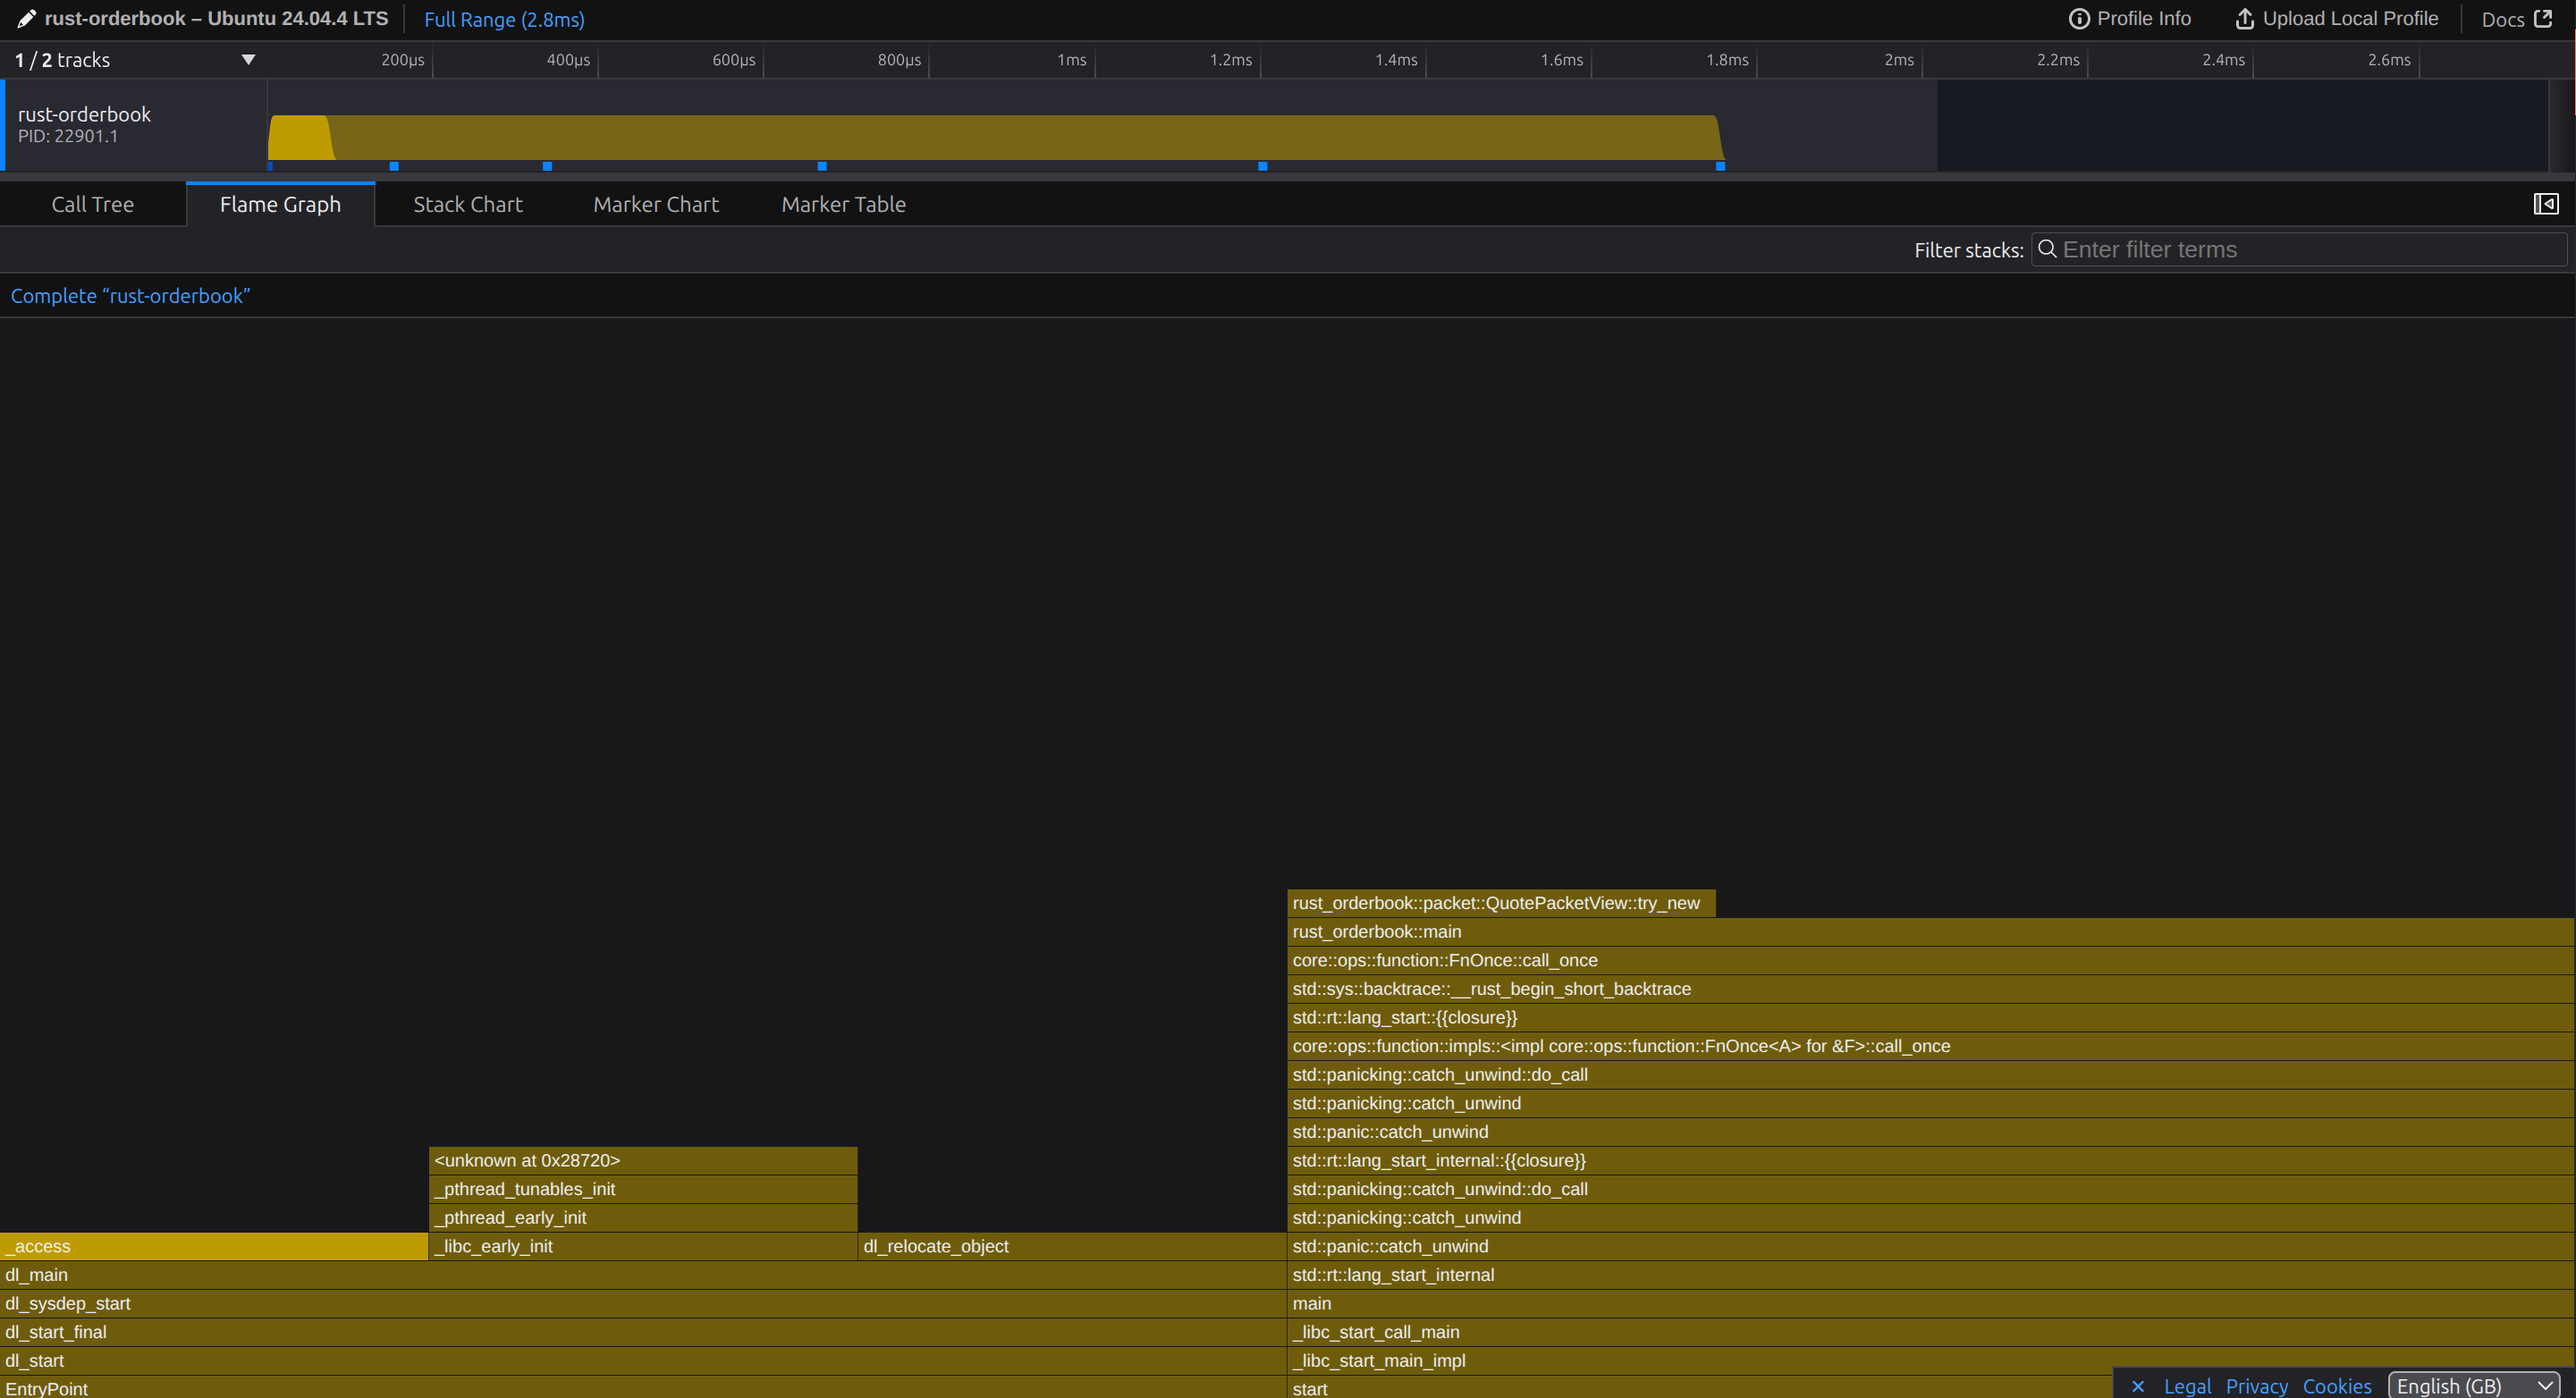
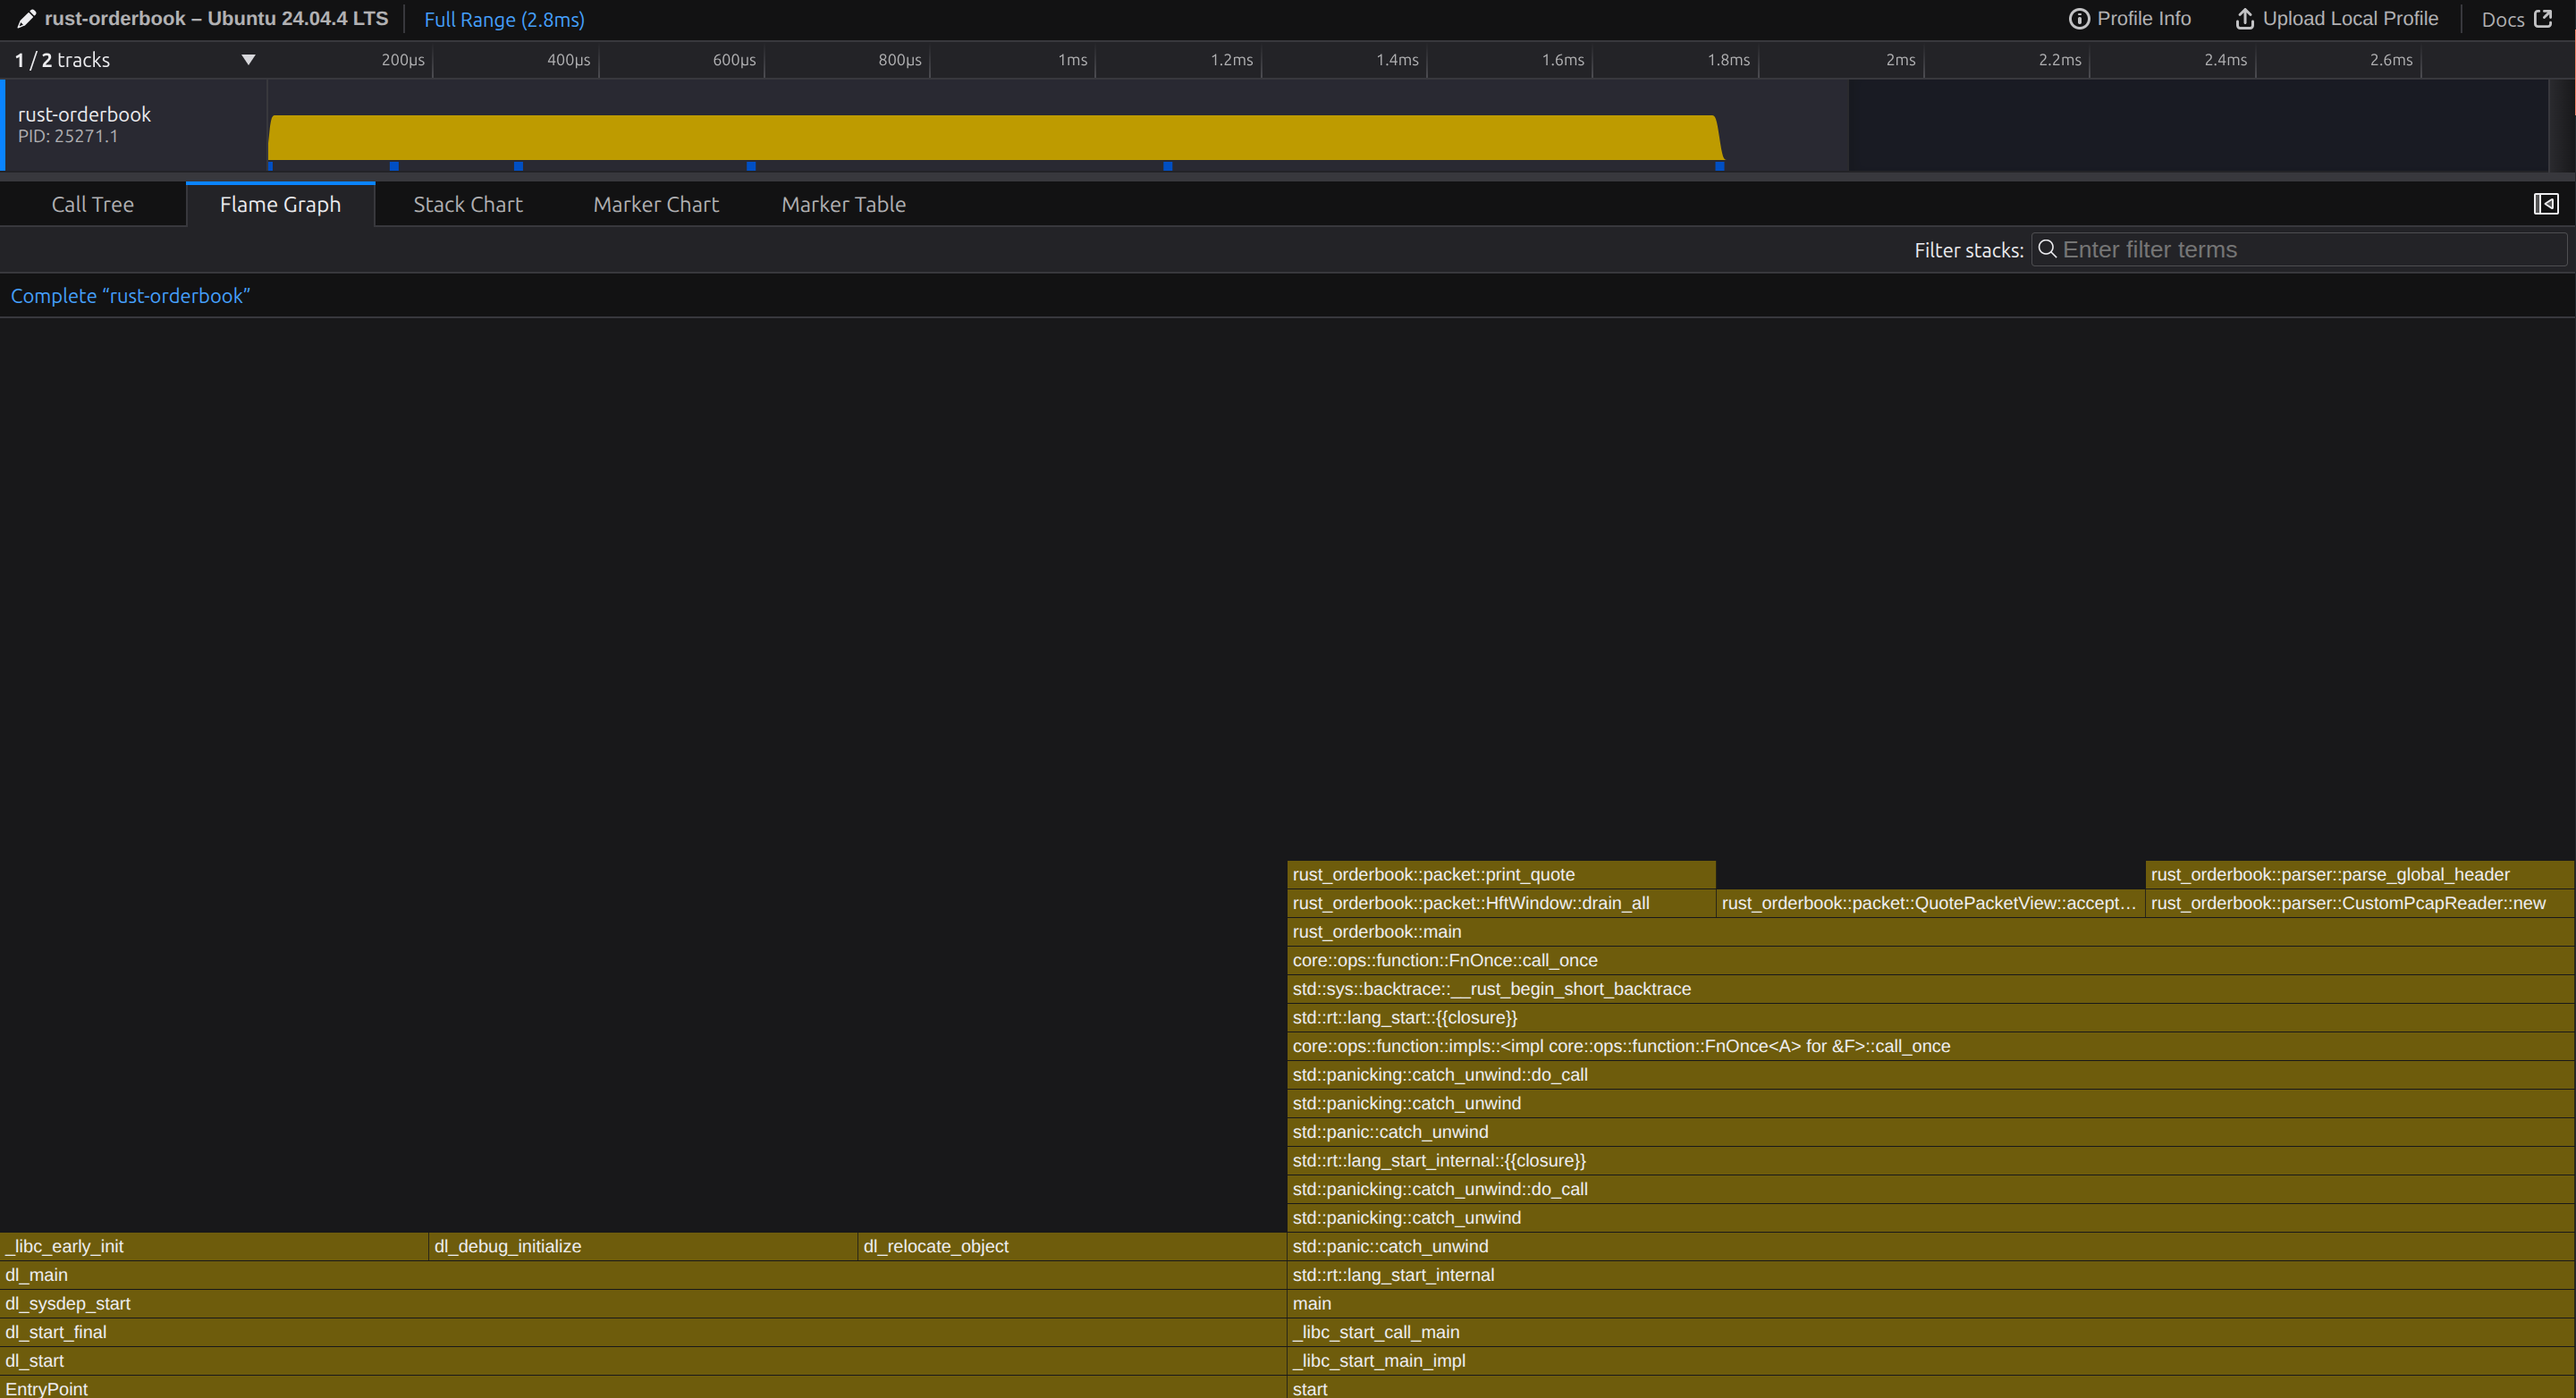
optimizations

diff --git a/src/packet.rs b/src/packet.rs
@@ -50,13 +50,14 @@ impl<'a> HftWindow<'a> {
         accept_time_ns: u64,
         out: &mut W,
         scratchpad: &mut Vec<u8>,
+        itoa_buf: &mut itoa::Buffer,
         bench_mod: bool,
     ) {
         let pkt_time_cs = pkt_time_ns / CS_TO_NS;
 
         // Advance time using the centisecond time
         if pkt_time_cs > self.max_time_seen {
-            self.advance_time(pkt_time_cs, out, scratchpad, bench_mod);
+            self.advance_time(pkt_time_cs, out, scratchpad, itoa_buf, bench_mod);
         }
 
         // Drop the new packet into its bucket
@@ -75,7 +76,7 @@ impl<'a> HftWindow<'a> {
     }
 
     #[inline(always)]
-    fn advance_time<W: std::io::Write>(&mut self, p_time: u64, out: &mut W, scratchpad: &mut Vec<u8>, bench_mod: bool) {
+    fn advance_time<W: std::io::Write>(&mut self, p_time: u64, out: &mut W, scratchpad: &mut Vec<u8>, itoa_buf: &mut itoa::Buffer, bench_mod: bool) {
 
         // If the gap between the new packet and the oldest allowed packet
         // is > 300cs, we must drain and print the oldest buckets.
@@ -92,7 +93,7 @@ impl<'a> HftWindow<'a> {
                 let (pkt, p_time, a_time) = unsafe {
                     self.buckets.get_unchecked(base_idx + i)
                 };
-                let _ = print_quote(out, pkt, *p_time, *a_time, scratchpad, bench_mod);
+                let _ = print_quote(out, pkt, *p_time, *a_time, scratchpad, itoa_buf, bench_mod);
             }
             
             // CLEAR the bucket for future use (keeps capacity, sets length to 0)
@@ -105,7 +106,7 @@ impl<'a> HftWindow<'a> {
     }
 
     #[inline(always)]
-    pub fn drain_all<W: std::io::Write>(&mut self, out: &mut W, scratchpad: &mut Vec<u8>, bench_mod: bool) {
+    pub fn drain_all<W: std::io::Write>(&mut self, out: &mut W, scratchpad: &mut Vec<u8>, itoa_buf: &mut itoa::Buffer, bench_mod: bool) {
         let start_time = self.max_time_seen.saturating_sub(WINDOW_LIMIT_CS);
 
         // Print everything in this bucket
@@ -118,7 +119,7 @@ impl<'a> HftWindow<'a> {
                 let (pkt, p_time, a_time)  = unsafe {
                     self.buckets.get_unchecked(base_idx + i)
                 };
-                let _ = print_quote(out, pkt, *p_time, *a_time, scratchpad, bench_mod);
+                let _ = print_quote(out, pkt, *p_time, *a_time, scratchpad, itoa_buf, bench_mod);
             }
             self.counts[idx]= 0;
         }
@@ -276,6 +277,7 @@ pub fn print_quote<W: Write>(
     pkt_time: u64,
     accept_time: u64,
     scratchpad: &mut Vec<u8>,
+    itoa_buf: &mut itoa::Buffer,
     bench_mod: bool,
 ) -> io::Result<()> {
 
@@ -284,7 +286,7 @@ pub fn print_quote<W: Write>(
     }
     scratchpad.clear();
 
-    let mut itoa_buf = itoa::Buffer::new();
+    // let mut itoa_buf = itoa::Buffer::new();
     // 1. Add pkt_time and accept_time
     scratchpad.extend_from_slice(itoa_buf.format(pkt_time).as_bytes());
     scratchpad.push(b' ');

diff --git a/src/main.rs b/src/main.rs
@@ -50,6 +50,7 @@ fn main() -> Result<(), CustomError> {
 
     let tz_offset_secs = 9 * 3600;
     let mut scratchpad = Vec::with_capacity(512);
+    let mut itoa_buf = itoa::Buffer::new();
 
     for (hdr, packet) in custom_reader {
         if packet.len() < 42 + QUOTE_PACKET_SIZE { continue; }
@@ -72,13 +73,13 @@ fn main() -> Result<(), CustomError> {
         let pkt_micros_of_day = seconds_today * 1_000_000 + ts_usec;
 
         if args.r {
-            hft_window.push(qp_view, pkt_micros_of_day, accept_time_ns, &mut out, &mut scratchpad, args.bench);
+            hft_window.push(qp_view, pkt_micros_of_day, accept_time_ns, &mut out, &mut scratchpad, &mut itoa_buf, args.bench);
         } else {
-            let _ = print_quote(&mut out, &qp_view, pkt_micros_of_day, accept_time_ns, &mut scratchpad, args.bench);
+            let _ = print_quote(&mut out, &qp_view, pkt_micros_of_day, accept_time_ns, &mut scratchpad, &mut itoa_buf, args.bench);
         }
     }
 
-    hft_window.drain_all(&mut out, &mut scratchpad, args.bench);
+    hft_window.drain_all(&mut out, &mut scratchpad, &mut itoa_buf, args.bench);
 
     out.flush().unwrap(); // Ensure everything is written to stdout
 

diff --git a/README.md b/README.md
@@ -34,9 +34,9 @@ With 3 second time bound check
 ```
 time target/release/rust-orderbook --file ./data/mdf-kospi200.20110216-0.pcap -r --bench > /dev/null
 
-real    0m0.010s
-user    0m0.007s
-sys     0m0.002s
+real    0m0.008s
+user    0m0.003s
+sys     0m0.005s
 ```
 
 Without any time bound checks 
@@ -44,9 +44,9 @@ Without any time bound checks
 ```
 time target/release/rust-orderbook --file ./data/mdf-kospi200.20110216-0.pcap --bench > /dev/null
 
-real    0m0.007s
+real    0m0.008s
 user    0m0.004s
-sys     0m0.003s
+sys     0m0.004s
 ```
 
 ### Samply
